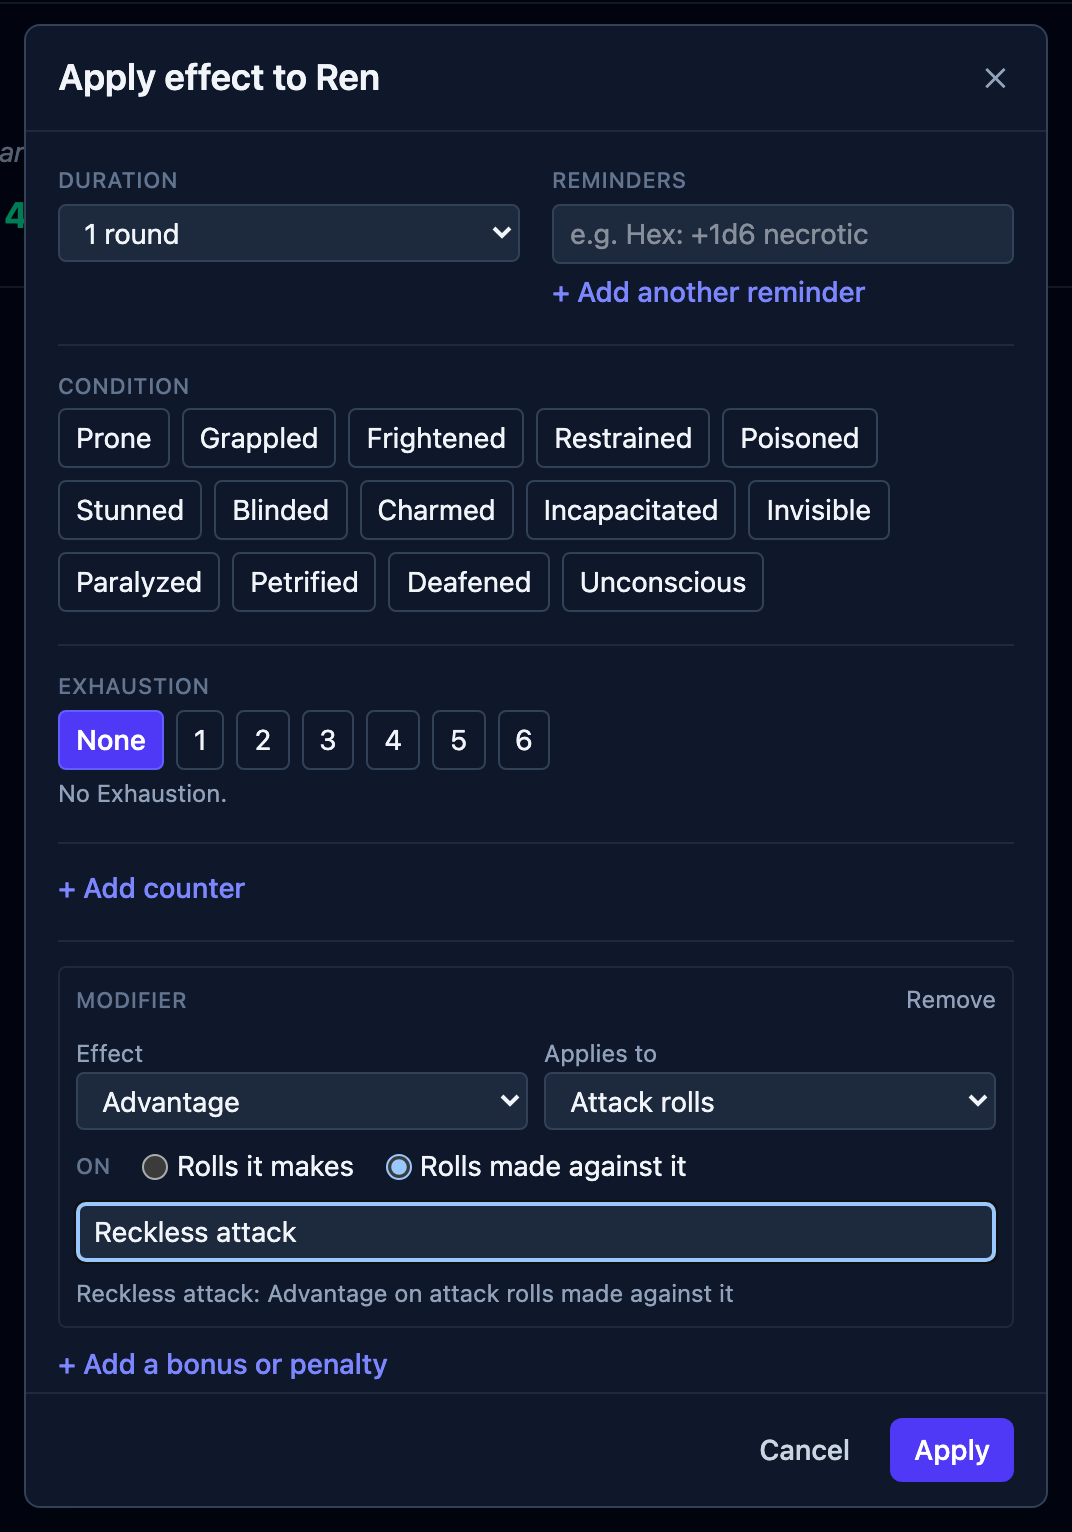
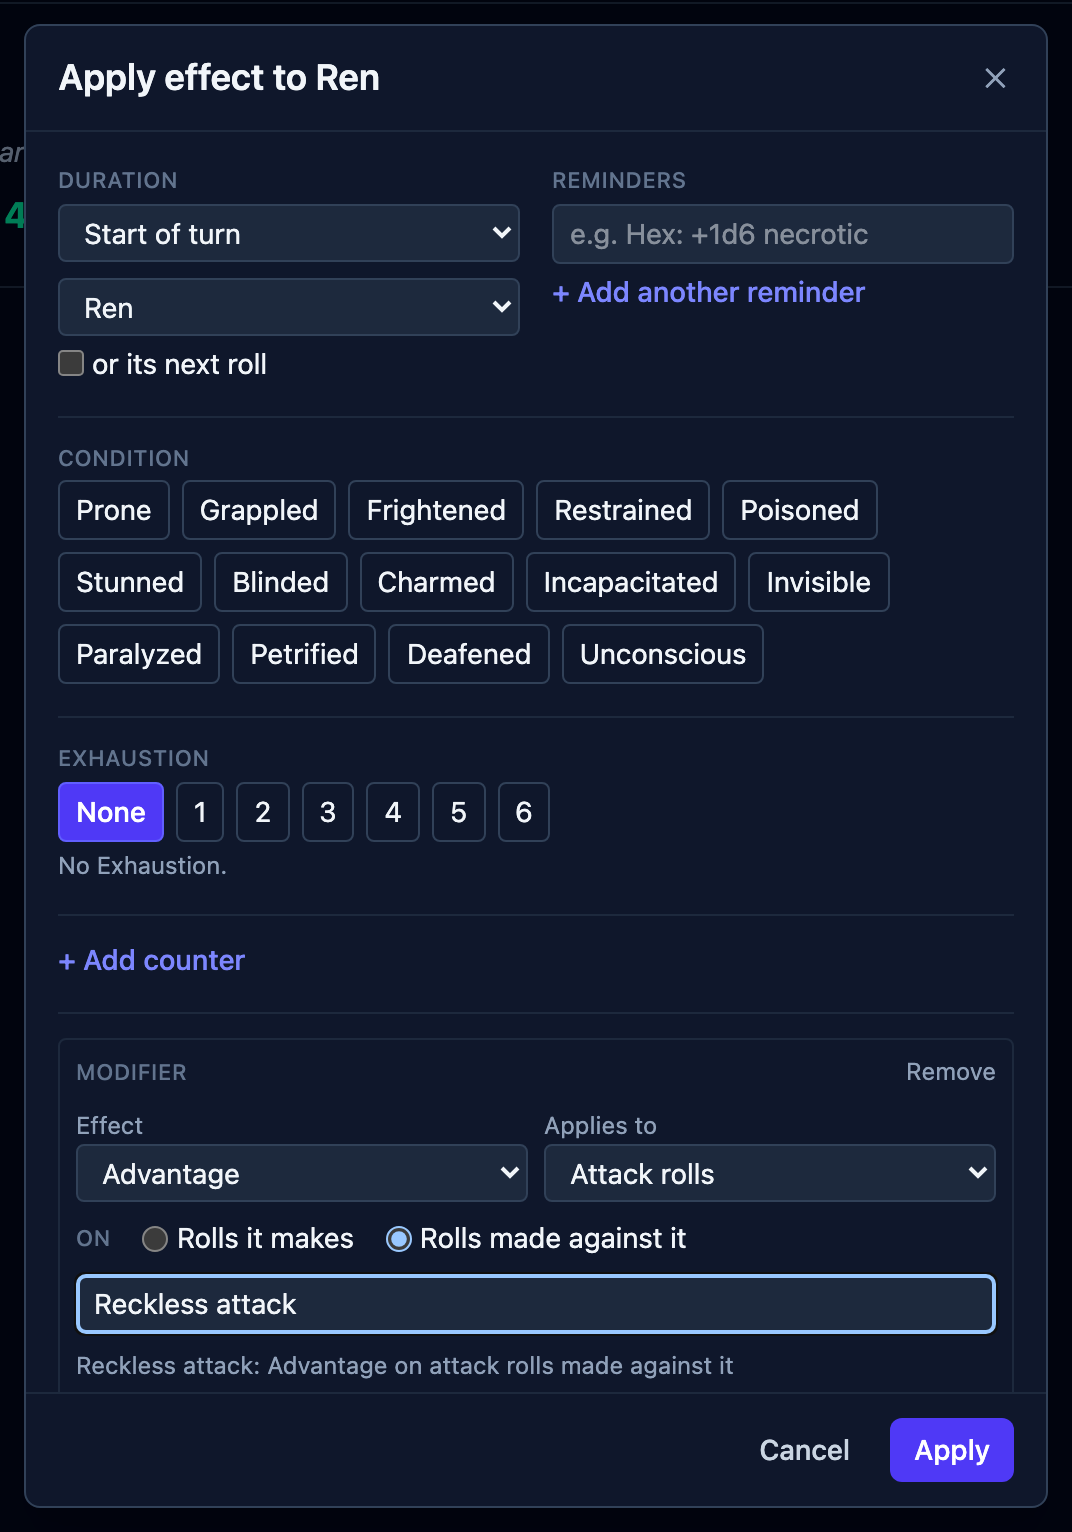
Docs: follow 1.1.0's effect durations and caster numbers
The 1 round and This turn / next attack durations are gone. Start of turn and
End of turn replace them, each naming whose turn ends the effect, and the roll
early-out moved onto its own box that rides on any duration. The guide still
told readers to pick chips that no longer exist, and the concept page described
the roll as a lifetime of its own rather than an early out.

Casting changed too. A saved character's spell attack bonus and save DC now come
from the class, level and ability scores on the sheet, so the line calling a
player's spell the path where OpenFray has no sheet to read from was wrong. The
three cases that still leave both fields blank are named in its place.

Two recipes broke rather than drifted. example-reckless selected 1 round, and
Start of turn is what Reckless Attack does anyway. The cast modal now carries
the caster's name in its title, which stopped gm-cast-spell resolving its crop.

diff --git a/src/content/docs/guides/effects.md b/src/content/docs/guides/effects.md
@@ -30,13 +30,25 @@ The numbered parts match the picture. Use the ones you need, in any order:
    The row appears once there are presets to offer. See [Presets](#presets).
 2. **Set how long it lasts.** The duration applies to everything staged in the box:
 
-   | Choice                      | Use it for                                                                                                                                                 |
-   | --------------------------- | ---------------------------------------------------------------------------------------------------------------------------------------------------------- |
-   | **Until removed**           | you'll clear it yourself when the story says so                                                                                                            |
-   | **This turn / next attack** | something used up by the next roll (Vicious Mockery)                                                                                                       |
-   | **Save ends**               | something the creature can shake off. It then asks which save, the number to beat, and whether it's rolled at the start or the end of that creature's turn |
-   | **1 round** … **24 hours**  | anything with a stated duration, such as a spell or a potion                                                                                               |
-   | **Custom…**                 | any other length, typed as a number of rounds, minutes, hours, or days                                                                                     |
+   | Choice                             | Use it for                                                                                                                                                 |
+   | ---------------------------------- | ---------------------------------------------------------------------------------------------------------------------------------------------------------- |
+   | **Until removed**                  | you'll clear it yourself when the story says so                                                                                                            |
+   | **Save ends**                      | something the creature can shake off. It then asks which save, the number to beat, and whether it's rolled at the start or the end of that creature's turn |
+   | **Start of turn**, **End of turn** | anything the rules end on a turn, like "until the start of its next turn". A second dropdown picks whose turn                                              |
+   | **1 minute** … **24 hours**        | anything with a stated duration, such as a spell or a potion                                                                                               |
+   | **Custom…**                        | any other length, typed as a number of rounds, minutes, hours, or days                                                                                     |
+
+   **Start of turn** and **End of turn** open a **Whose turn** dropdown listing everyone
+   on the board, allies first. It starts on the creature you're applying to, which is
+   what most rules mean. Pick someone else when the effect ends on their turn instead,
+   like a fear that lasts until the creature that caused it acts again.
+
+   Below the duration, tick **or its next roll** to end the effect early on the first
+   roll it changes, like Vicious Mockery's next attack. It rides on top of whatever
+   duration you picked, so the effect still ends on its own if no such roll comes.
+   OpenFray never sees a player's own rolls, so for a player the duration above is what
+   ends it. The box isn't offered for **Save ends**, where a roll ending it is already
+   the point.
 
 3. **Type a reminder.** A short note OpenFray shows on the creature's row. It reminds
    you; you decide what it does. **+ Add another reminder** stages a second note.
@@ -74,13 +86,13 @@ time.
 ### Reckless Attack
 
 The barbarian's player announces it. There's no spell to cast and nothing on any stat
-block; for the rest of the round, attacks against them have advantage.
+block; until their next turn starts, attacks against them have advantage.
 
 ![The Apply effect box set up for Reckless: Advantage on attack rolls made against it, with the summary line text.](../../../assets/screens/example-reckless.png)
 
 1. Click the player's character, then **Apply effect**.
-2. Set **Duration** to **1 round**, so it clears itself when their turn comes round
-   again.
+2. Set **Duration** to **Start of turn**, and leave **Whose turn** on the character
+   themselves, so it clears when their next turn begins.
 3. Click **+ Add a bonus or penalty**.
 4. Set the **Effect** to **Advantage**, **Applies to** to **Attack rolls**, and **On**
    to **Rolls made against it**.

diff --git a/src/content/docs/guides/spells.md b/src/content/docs/guides/spells.md
@@ -34,9 +34,19 @@ case needs no picking; change it in the dropdown when it's someone else.
 ![The Cast spell button outlined in red, its modal open with a caster picker set to Zara, a spell search, and a badged spell list.](../../../assets/screens/cast-spell-modal.png)
 
 Naming a caster does two things: OpenFray takes their save DC and spell attack bonus,
-and starts their concentration when the spell takes hold. You can also cast with the
-caster blank and type the numbers yourself. That's the path for a player's spell, where
-OpenFray has no sheet to read from.
+and starts their concentration when the spell takes hold. A creature reads both off its
+stat block. A saved character works them out from the class, level and ability scores
+you typed in, so a player's spell needs no numbers from you either.
+
+Some characters leave both fields blank, and you type the numbers yourself:
+
+- a character whose spellcasting comes from a subclass, like an Eldritch Knight, because
+  the board records the class and not the subclass;
+- a character with more than one class, because only one of them is stored;
+- an anonymous character or a [quick add](/docs/concepts/combatants/), which carries no
+  class, level, or ability scores at all.
+
+You can also cast with the caster blank and type both numbers, whoever is casting.
 
 What happens next depends on the spell:
 

diff --git a/src/content/docs/concepts/effects.md b/src/content/docs/concepts/effects.md
@@ -55,9 +55,12 @@ doesn't apply anything for you. A reminder is a note, and you decide what it mea
 Every effect knows when it ends. Some count down in rounds, and the board shows what's
 left ("10 rounds left"). Some clear on their own at the right moment:
 
-- effects that last **until the next attack or roll** clear when that roll happens
-  (Vicious Mockery);
-- effects that last **until my next turn** clear when their owner starts to act;
+- effects hung on a **turn** clear at the start or the end of that turn. The turn can
+  belong to anyone on the board, so a fear can end when the creature that caused it acts
+  again;
+- effects marked **or its next roll** also clear on the first roll they change (Vicious
+  Mockery), whatever their duration says. OpenFray never sees a player's own rolls, so
+  for a player the duration is what ends it;
 - effects that last a set time clear when it runs out, and show the time when OpenFray
   can't count it in rounds ("1 hour left");
 - the rest stay until you clear them.
